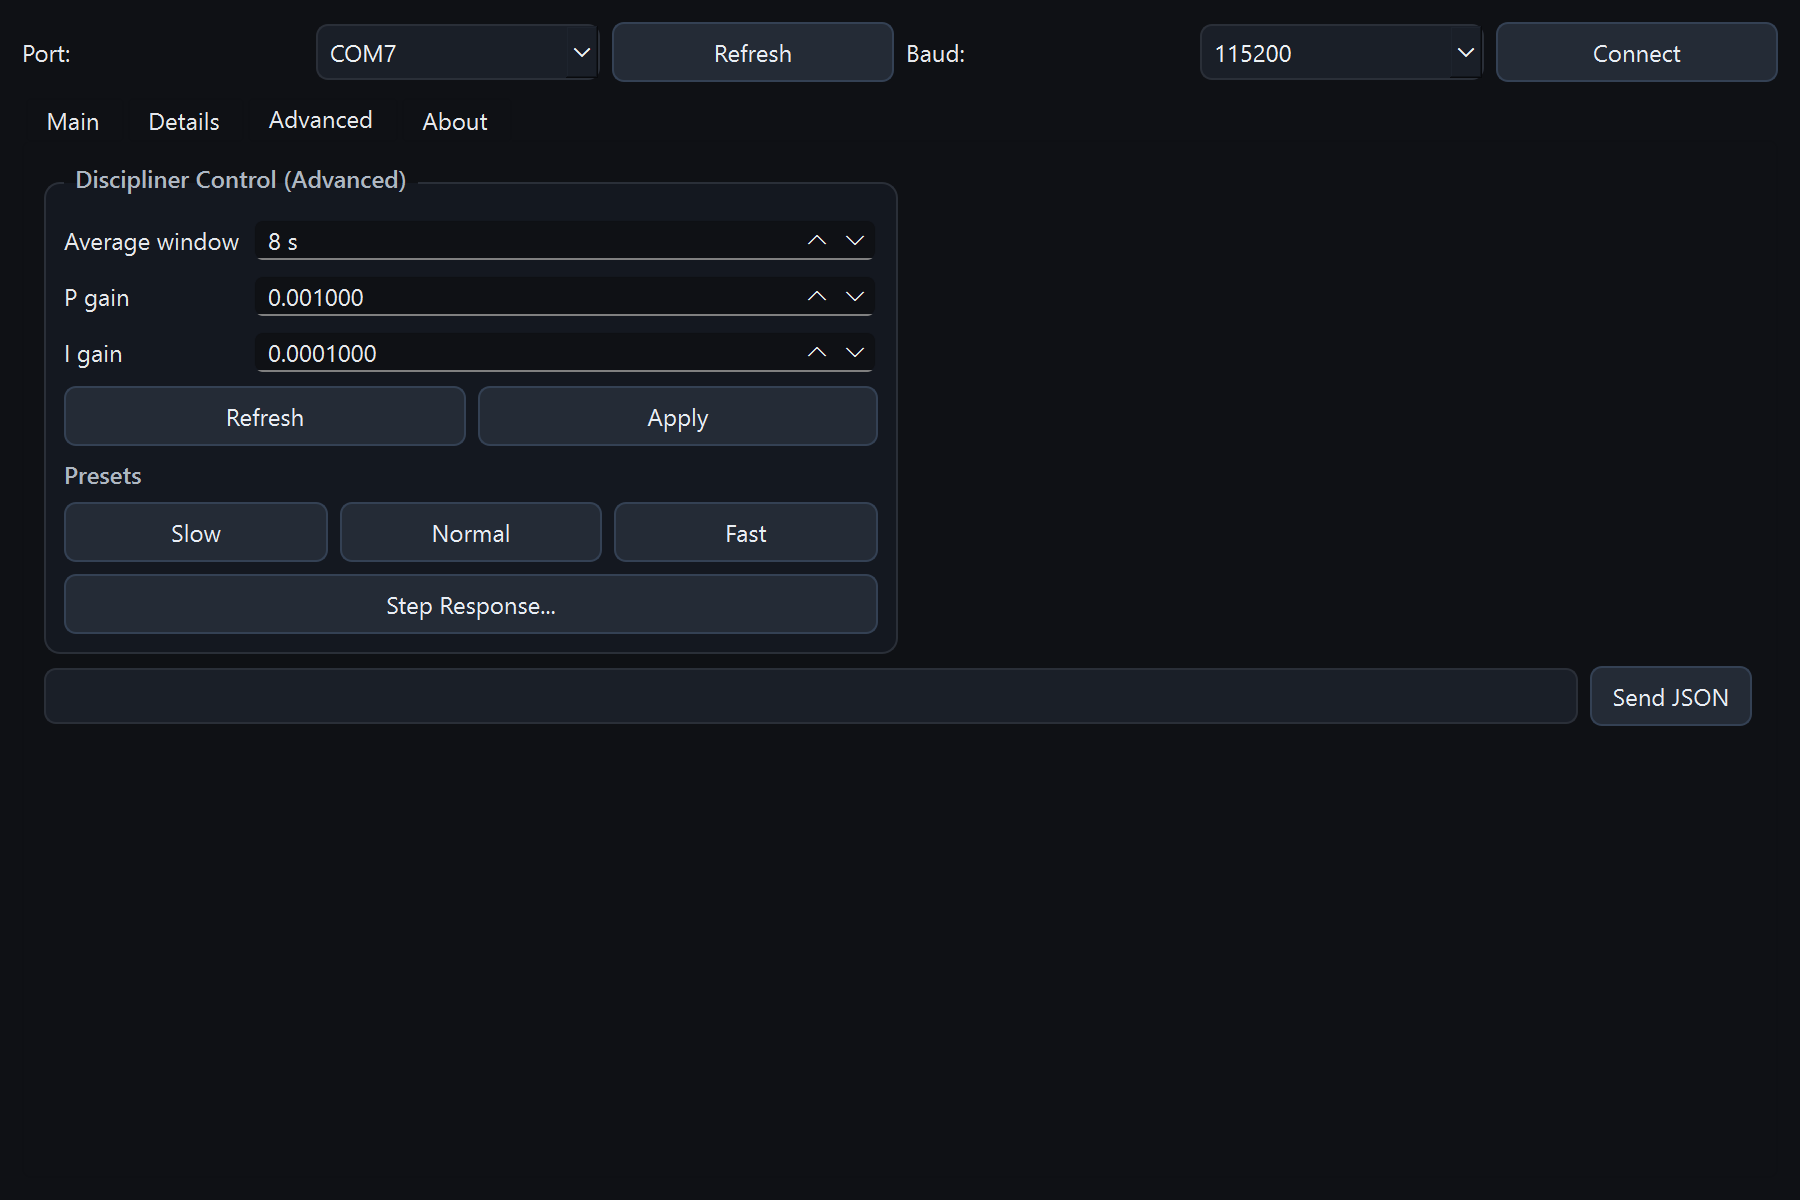
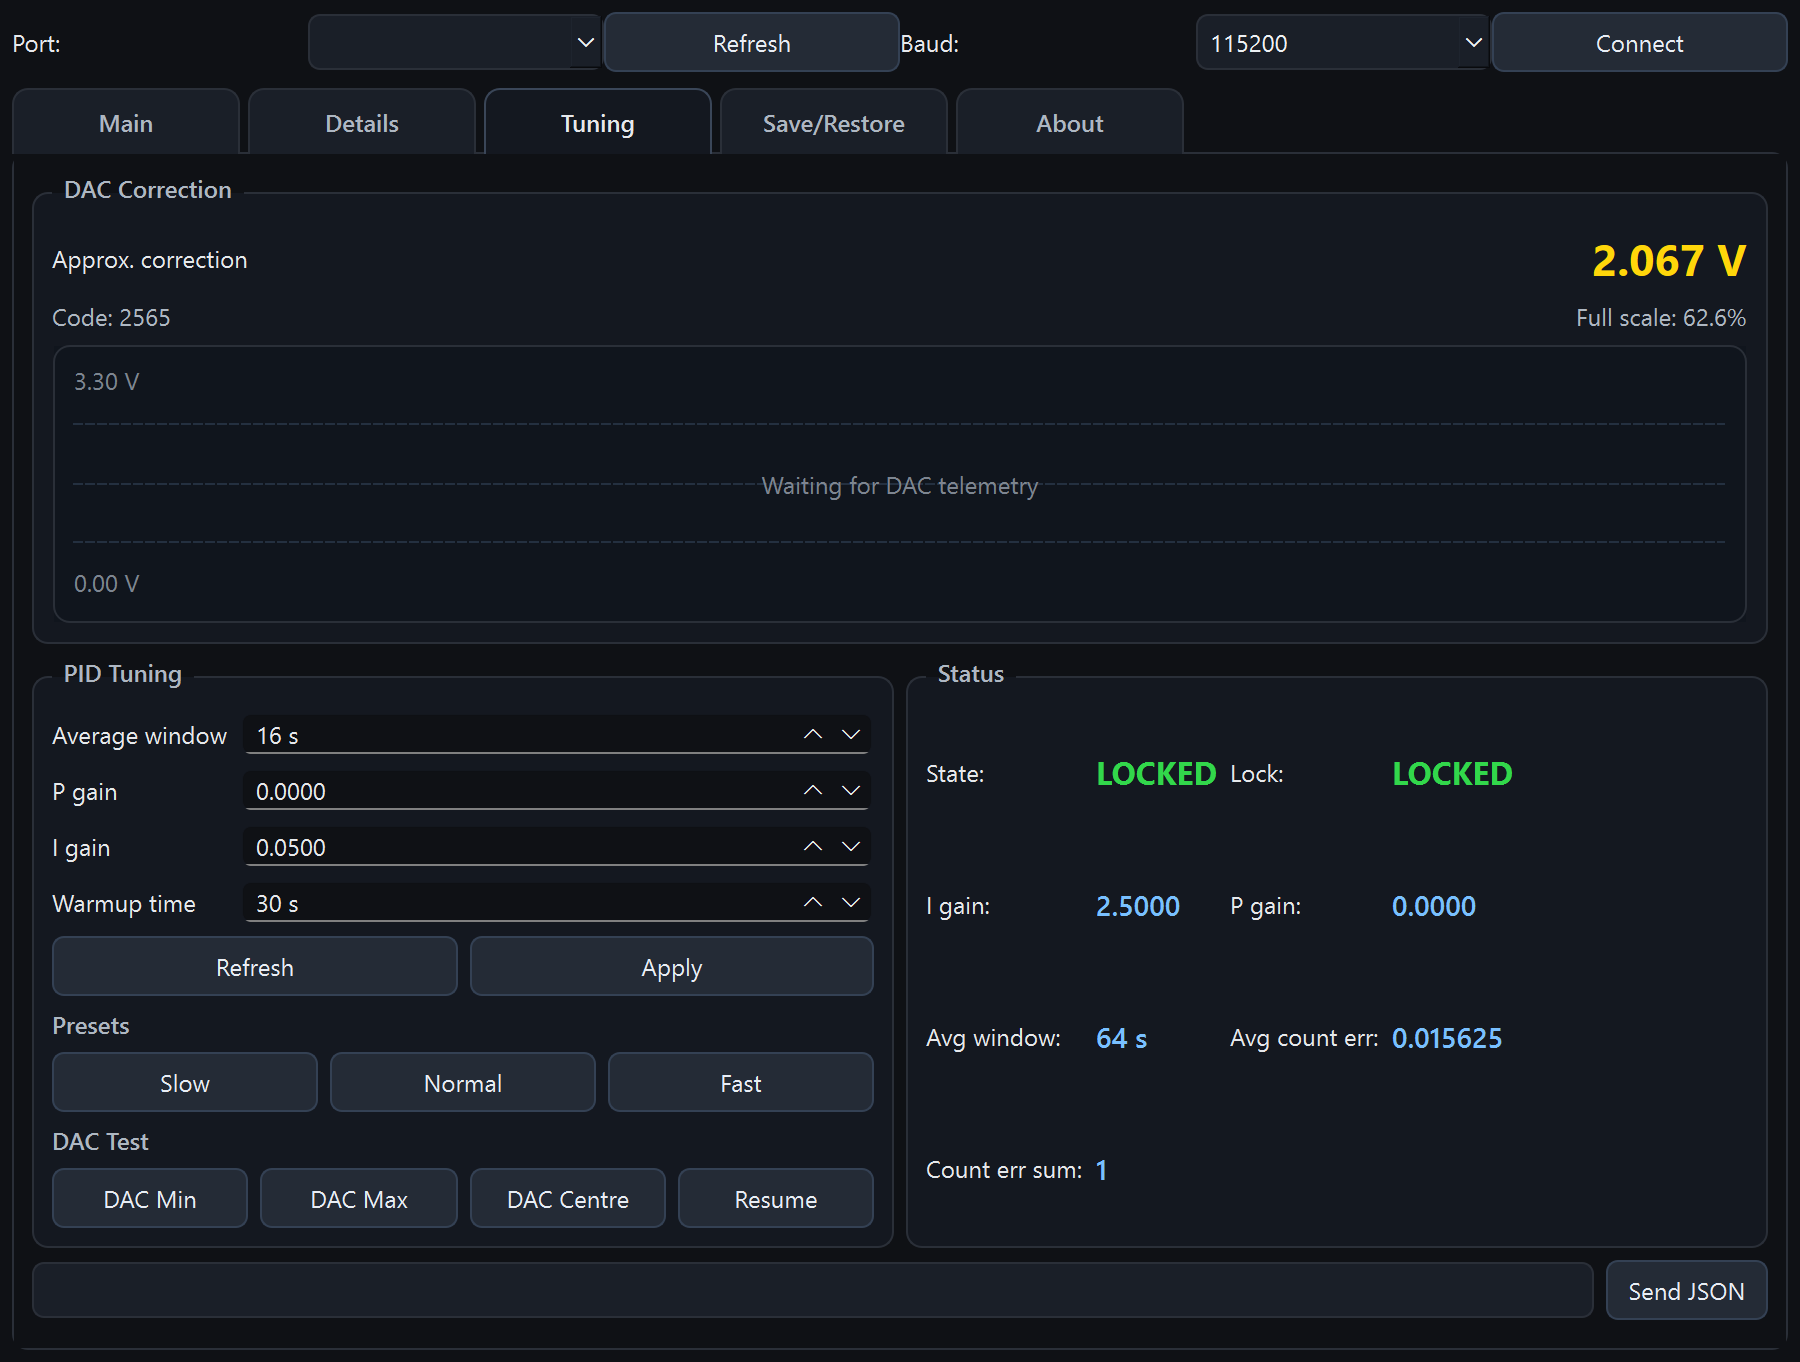
Update manual screenshots and capture script for count-error control loop

diff --git a/monitor/tools/capture_manual_screens.py b/monitor/tools/capture_manual_screens.py
@@ -64,14 +64,24 @@ def _seed_demo_data(window):
             'sats_in_view': 13,
             'hdop': 0.9,
             'disc_state': 'LOCKED',
-            'freq_error_ppb': -12,
-            'disc_avg_window_s': 120,
-            'disc_avg_freq_ppb': -8,
-            'dac_value': 2048,
+            'disc_count_err': 0.015625,
+            'disc_avg_count_err': 0.015625,
+            'disc_avg_window_s': 64,
+            'disc_p_gain': 0.0,
+            'disc_i_gain': 5.0,
+            'disc_i_gain_eff': 2.5,
+            'disc_warmup_s': 30,
+            'count_err_sum': 1,
+            'freq_ppb': 51.7,
+            'measured_freq_hz': 10000000.0,
+            'measured_freq_error_ppb': 0,
+            'dac_value': 2565,
+            'saved_dac': 2560,
             'adf1_locked': True,
             'adf2_locked': True,
             'alarm_steady': False,
             'alarm_flash': False,
+            'status_interval_ms': 5000,
         }
     )
     window.handle_json(
